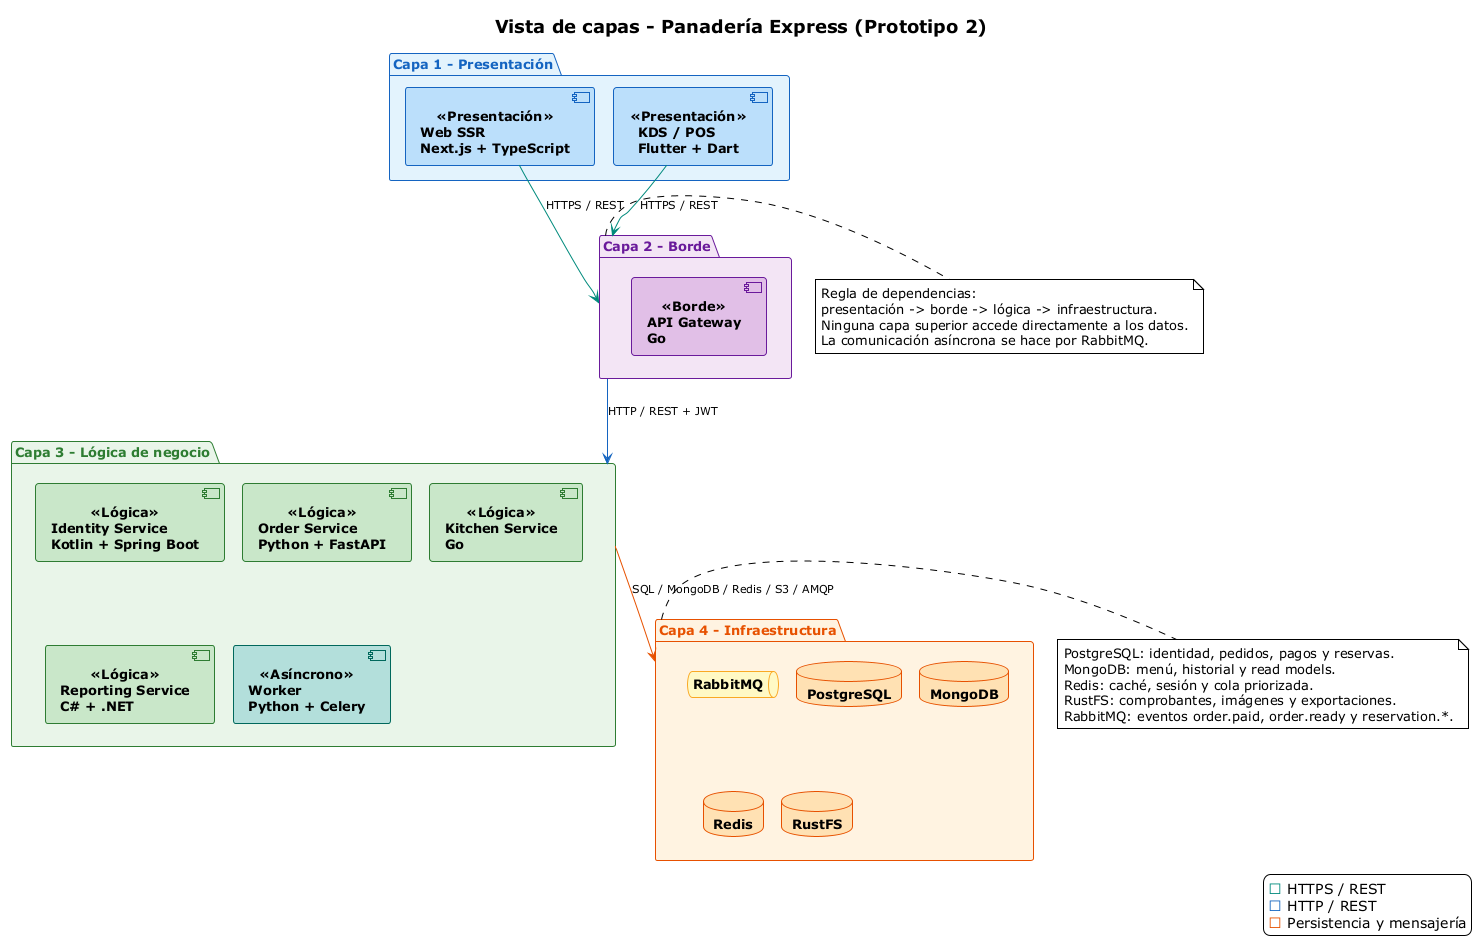
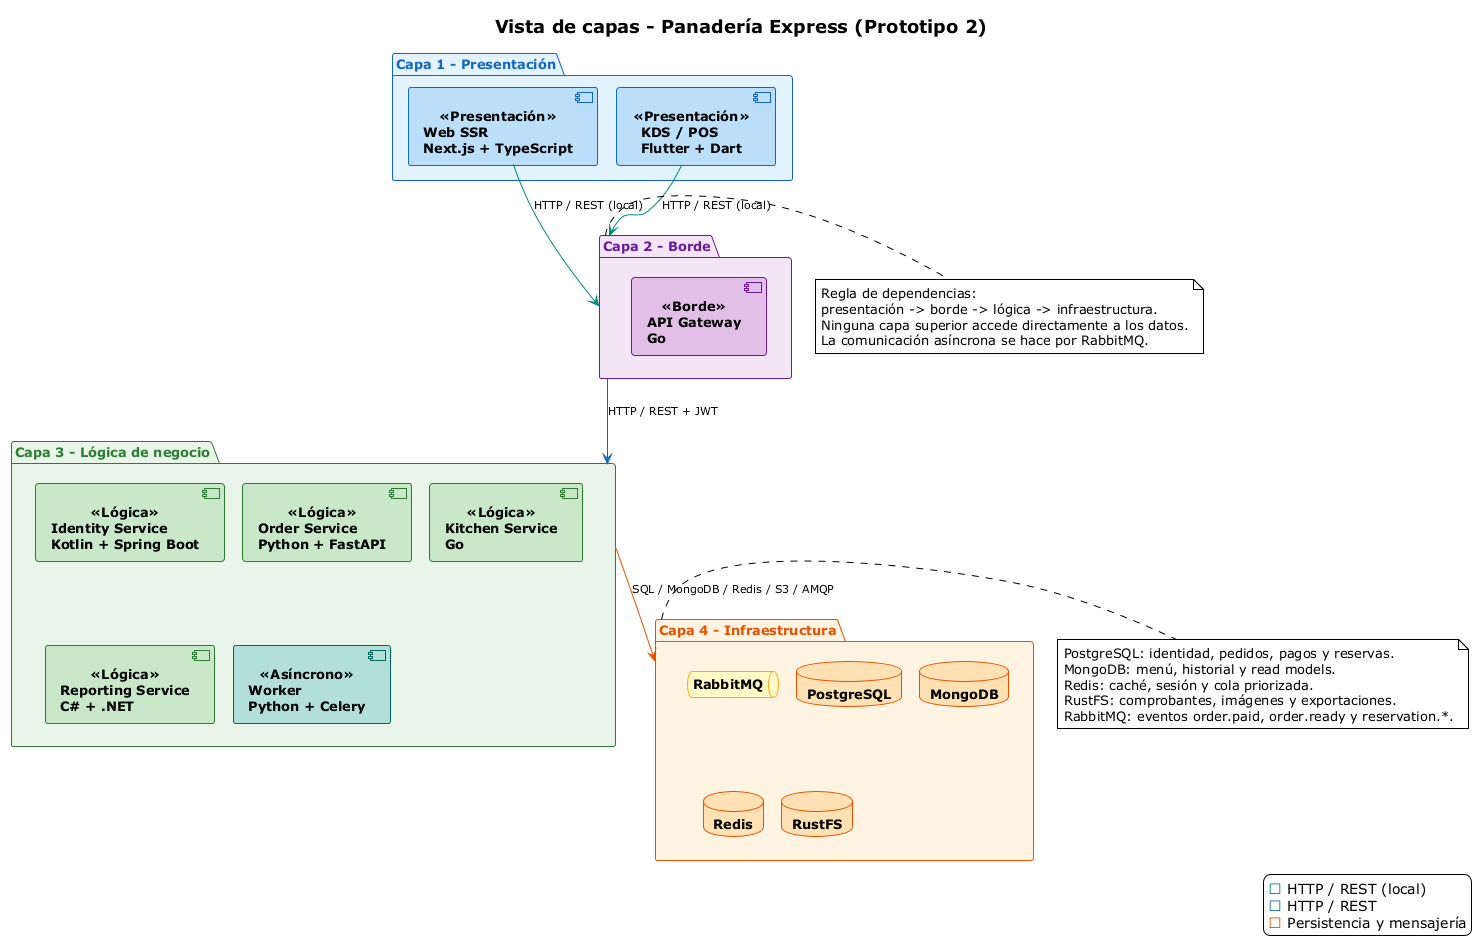
fix: align prototype 2 services and architecture

Changed region(s): [[0.2483, 0.0613, 0.5277, 0.2452], [0.9001, 0.9197, 0.9622, 0.9503]]

diff --git a/g3-H-PanTech/kitchen-service/tests/integration_test.go b/g3-H-PanTech/kitchen-service/tests/integration_test.go
@@ -127,8 +127,13 @@ func TestPostgresPrepTimesHistoryAndConcurrentMigrate(t *testing.T) {
 	if err := db.SetPrepTime(ctx, product, 7); err != nil {
 		t.Fatal(err)
 	}
-	got, err := db.Lookup(ctx, []string{product, "66666666-6666-4666-8666-666666666666"})
-	if err != nil || len(got) != 1 || got[product] != 7 {
+	// Los IDs reales del menú son slugs, no UUID (migración 0002).
+	const slug = "p-cafe-americano"
+	if err := db.SetPrepTime(ctx, slug, 2); err != nil {
+		t.Fatal(err)
+	}
+	got, err := db.Lookup(ctx, []string{product, slug, "66666666-6666-4666-8666-666666666666"})
+	if err != nil || len(got) != 2 || got[product] != 7 || got[slug] != 2 {
 		t.Fatalf("lookup = %v %v", got, err)
 	}
 
@@ -165,10 +170,15 @@ func TestPrepTimesResolveThroughService(t *testing.T) {
 	if err := db.SetPrepTime(ctx, product, 9); err != nil {
 		t.Fatal(err)
 	}
+	const slug = "p-cafe-americano"
+	if err := db.SetPrepTime(ctx, slug, 4); err != nil {
+		t.Fatal(err)
+	}
 
 	svc := &queue.Service{Prep: db, DefaultPrep: 5}
 	items := []queue.OrderItem{
 		{ProductID: product, Name: "Desayuno", Quantity: 1},
+		{ProductID: slug, Name: "Café", Quantity: 1},
 		{ProductID: "66666666-6666-4666-8666-666666666666", Name: "Sin tiempo", Quantity: 1},
 		{ProductID: "77777777-7777-4777-8777-777777777777", Name: "Pan", Quantity: 1, PrepMinutes: 3},
 	}
@@ -176,7 +186,8 @@ func TestPrepTimesResolveThroughService(t *testing.T) {
 	if err != nil {
 		t.Fatal(err)
 	}
-	if prep != 9 || resolved[0].PrepMinutes != 9 || resolved[1].PrepMinutes != 5 || resolved[2].PrepMinutes != 3 {
+	if prep != 9 || resolved[0].PrepMinutes != 9 || resolved[1].PrepMinutes != 4 ||
+		resolved[2].PrepMinutes != 5 || resolved[3].PrepMinutes != 3 {
 		t.Fatalf("prep = %d, ítems = %+v", prep, resolved)
 	}
 }

diff --git a/g3-H-PanTech/kitchen-service/internal/repository/postgres.go b/g3-H-PanTech/kitchen-service/internal/repository/postgres.go
@@ -117,7 +117,7 @@ func (p *Postgres) Lookup(ctx context.Context, productIDs []string) (map[string]
 		return out, nil
 	}
 	rows, err := p.pool.Query(ctx,
-		`SELECT product_id::text, prep_minutes FROM kitchen.prep_times WHERE product_id = ANY($1::uuid[])`, productIDs)
+		`SELECT product_id, prep_minutes FROM kitchen.prep_times WHERE product_id = ANY($1::text[])`, productIDs)
 	if err != nil {
 		return nil, err
 	}

diff --git a/g3-H-PanTech/reporting-service/Tests/Usings.cs b/g3-H-PanTech/reporting-service/Tests/Usings.cs
@@ -1,0 +1,2 @@
+// Los archivos de prueba usan [Fact]/[Theory] sin importar Xunit en cada uno.
+global using Xunit;

diff --git a/g3-H-PanTech/docs/transcripci_n_prototype_2.md b/g3-H-PanTech/docs/transcripci_n_prototype_2.md
@@ -1,0 +1,83 @@
+# Prototype 2: Advanced Architectural Structure
+
+**Universidad Nacional de Colombia**
+**Docente:** Jeisson Andrés Vergara Vargas
+**Asignatura:** Software Architecture
+**Período:** 2025-II
+**Fecha de emisión:** 2025-10-08
+
+---
+
+## 1. Objective
+
+The objective of the second delivery of the project is to redesign the architecture and generate a second prototype of the software system developed as a project.
+
+---
+
+## 2. Requirements
+
+### 2.1. Functional Requirements
+
+* The functional completeness for the software system must be defined by the team.
+
+### 2.2. Non-Functional Requirements
+
+* The software system must follow a distributed architecture.
+* The software system must include at least two different presentation-type components (one of them: web front-end).
+* The web front-end must follow an SSR (Server-Side Rendering) subarchitecture.
+* The software system must include at least four logic-type components.
+* The software system must include at least one component that allows communication/orchestration between the logical components.
+* The software system must include at least four data-type components (including relational and NoSQL databases).
+* The software system must include at least one component that is responsible for handling asynchronous processes within the system.
+* The software system must include a set of HTTP-based connectors.
+* The software system must be built using at least four different general-purpose programming languages.
+* The deployment of the software system must be container-oriented.
+
+---
+
+## 3. Delivery
+
+### 3.1. Artifact
+
+* **Team**
+  * Name (1a, 1b, ..., 2a, 2b, ...)
+  * Full names of the team members.
+* **Software System**
+  * Name
+  * Logo
+  * Description
+* **Architectural Structures**
+  * **Component-and-Connector (C&C) Structure**
+    * C&C View
+    * Description of architectural elements and relations.
+    * Description of architectural styles and patterns used.
+  * **Deployment Structure**
+    * Deployment View
+    * Description of architectural elements and relations.
+    * Description of architectural patterns used.
+  * **Layered Structure**
+    * Layered View
+    * Description of architectural elements and relations.
+    * Description of architectural patterns used.
+  * **Decomposition Structure**
+    * Decomposition View
+    * Description of architectural elements and relations.
+* **Prototype**
+  * Instructions for deploying the software system locally.
+
+### 3.2. Submission Format
+
+* The deliverable must be submitted via GitHub (`swarch2025ii` repository).
+* **Steps:**
+  * Use the branch `prototype_2`.
+  * In the folder `project/prototype_2`, create an `X` folder (where $x = \text{the team name } [1a, 1b, \dots, 2a, 2b, \dots]$), which must include:
+    * The artifact in a `README.md` file.
+    * The files that may be necessary for deploying the software system locally.
+
+### 3.3. Delivery Deadline
+
+Wednesday, October 22, 2025, before 23h59.
+
+### 3.4. Delivery Presentation
+
+Thursday, October 23, 2025 (in class).

diff --git a/g3-H-PanTech/docs/equipo/propuestas-yeison/ALINEACION-CON-INFRAESTRUCTURA.md b/g3-H-PanTech/docs/equipo/propuestas-yeison/ALINEACION-CON-INFRAESTRUCTURA.md
@@ -20,7 +20,7 @@ Revisado contra `docker-compose.p2.yml`, `.env.p2.example` y `infrastructure/`. 
 
 1. **`docker-compose.p2.yml`, servicio `worker`:** agregar `ORDER_SERVICE_URL: ${ORDER_URL:-http://order-service:8000}` y `order-service: condition: service_healthy` en `depends_on`. (Funciona con el valor por defecto del código, pero conviene que sea explícito.)
 2. **Servicios `order-service` y `reporting-service`:** agregar `JWKS_URL`, `JWT_ISSUER` y `JWT_AUDIENCE` (ya están en `.env.p2.example`); el gateway sí los recibe, estos dos no.
-3. **URLs firmadas de los reportes:** RustFS no publica el puerto 9000 al host (solo la consola 9001), así que el navegador no podría abrir la URL de una exportación. Opciones: publicar 9000, o que Reporting entregue el archivo por un endpoint propio. Reporting acepta `S3_PUBLIC_ENDPOINT` para firmar con el host visible desde el navegador.
+3. **URLs firmadas de los reportes (resuelto):** Compose publica RustFS `:9000` para S3 y configura `S3_PUBLIC_ENDPOINT=http://localhost:9000`, de modo que el navegador pueda abrir las exportaciones.
 4. **Cola de `reservation.confirmed` (opcional):** ver `rabbitmq.reservation_confirmed.parche.json`. Sin ella, el read model `reservation_read` queda en `pendiente` después de confirmar.
 5. **Variables nuevas para `.env.p2.example`:** `PUBLISH_RESERVATION_CONFIRMED=false` (Order Service) y `S3_PUBLIC_ENDPOINT` (Reporting).
 6. **Mongo:** no hay que cambiar `init.js`. El `menu` acepta mis documentos (`price` decimal, `category`, `available`).

diff --git a/g3-H-PanTech/docs/equipo/contratos.md b/g3-H-PanTech/docs/equipo/contratos.md
@@ -22,12 +22,13 @@ Este documento es la fuente única de verdad para puertos, autenticación, event
 | `postgres` | 5432 | `postgresql://postgres:5432` | No |
 | `mongodb` | 27017 | `mongodb://mongodb:27017` | No |
 | `redis` | 6379 | `redis://redis:6379` | No |
-| `rustfs` | 9000 / 9001 | `http://rustfs:9000` | Solo `:9001` (consola) |
+| `rustfs` | 9000 / 9001 | `http://rustfs:9000` | `:9000` (S3) y `:9001` (consola) |
 
 **Reglas:**
 
-- Solo `web-ssr` y `api-gateway` se publican como entrada de usuario.
+- `web-ssr` y `api-gateway` son las entradas de usuario. RustFS publica `:9000` para descargas firmadas; las consolas locales de RabbitMQ (`:15672`) y RustFS (`:9001`) también se publican.
 - Los servicios de lógica se llaman entre sí por nombre de contenedor, nunca por `localhost`.
+- El Compose local usa HTTP sin TLS; HTTPS requiere terminación TLS externa.
 - El KDS/POS es un cliente de escritorio y no tiene puerto en el compose.
 - Los puertos internos no se cambian sin actualizar este documento, el compose y los diagramas.
 

diff --git a/g3-H-PanTech/docs/equipo/propuestas-yeison/contratos-yeison.md b/g3-H-PanTech/docs/equipo/propuestas-yeison/contratos-yeison.md
@@ -36,5 +36,5 @@ Todos llevan `event_id` (UUID, también `message_id` de AMQP) y `occurred_at`. E
 
 **Jaime (Infraestructura)** — el detalle está en `ALINEACION-CON-INFRAESTRUCTURA.md`
 8. Agregar `ORDER_SERVICE_URL` y la dependencia de `order-service` al worker, y `JWKS_URL`, `JWT_ISSUER`, `JWT_AUDIENCE` a order-service y reporting-service.
-9. Decidir cómo se descargan las exportaciones (RustFS no publica el puerto 9000) y si se agrega la cola de `reservation.confirmed`.
+9. Las exportaciones usan `S3_PUBLIC_ENDPOINT` y RustFS publica `:9000` para S3; queda pendiente decidir si se agrega la cola de `reservation.confirmed`.
 10. Dar `SELECT` a Reporting sobre `orders.*` y `kitchen.order_status_events` (hoy comparten el usuario `panaderia`, así que ya lo tiene).

diff --git a/g3-H-PanTech/docs/equipo/demo.md b/g3-H-PanTech/docs/equipo/demo.md
@@ -10,7 +10,8 @@ improvisar. Todos los comandos se ejecutan desde `g3-H-PanTech/`.
   `scripts/smoke_test.py`; no requiere paquetes externos).
 - Flutter SDK solo si se quiere abrir el KDS/POS de escritorio.
 - Puertos libres: `3000` (Web SSR), `8080` (Gateway), `15672` (RabbitMQ),
-  `9001` (RustFS), `5432`/`27017`/`6379` si se publican para inspección local.
+  `9000` (RustFS S3), `9001` (consola RustFS), `5432`/`27017`/`6379` si se
+  publican para inspección local.
 
 ## 2. Levantar el stack
 
